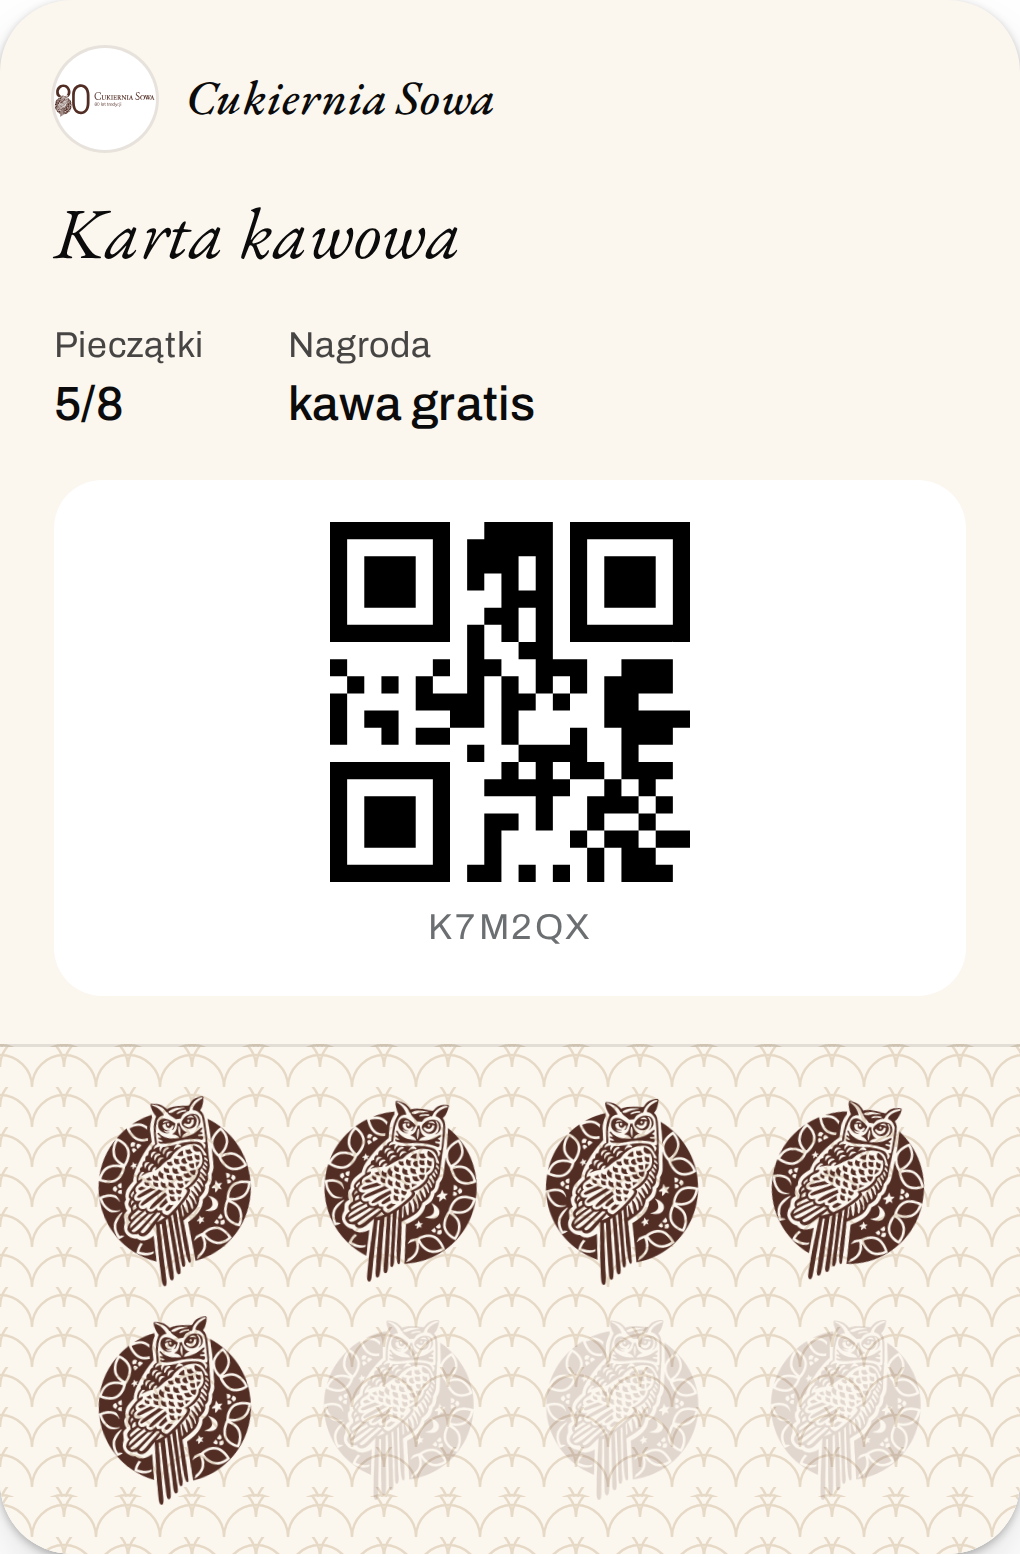
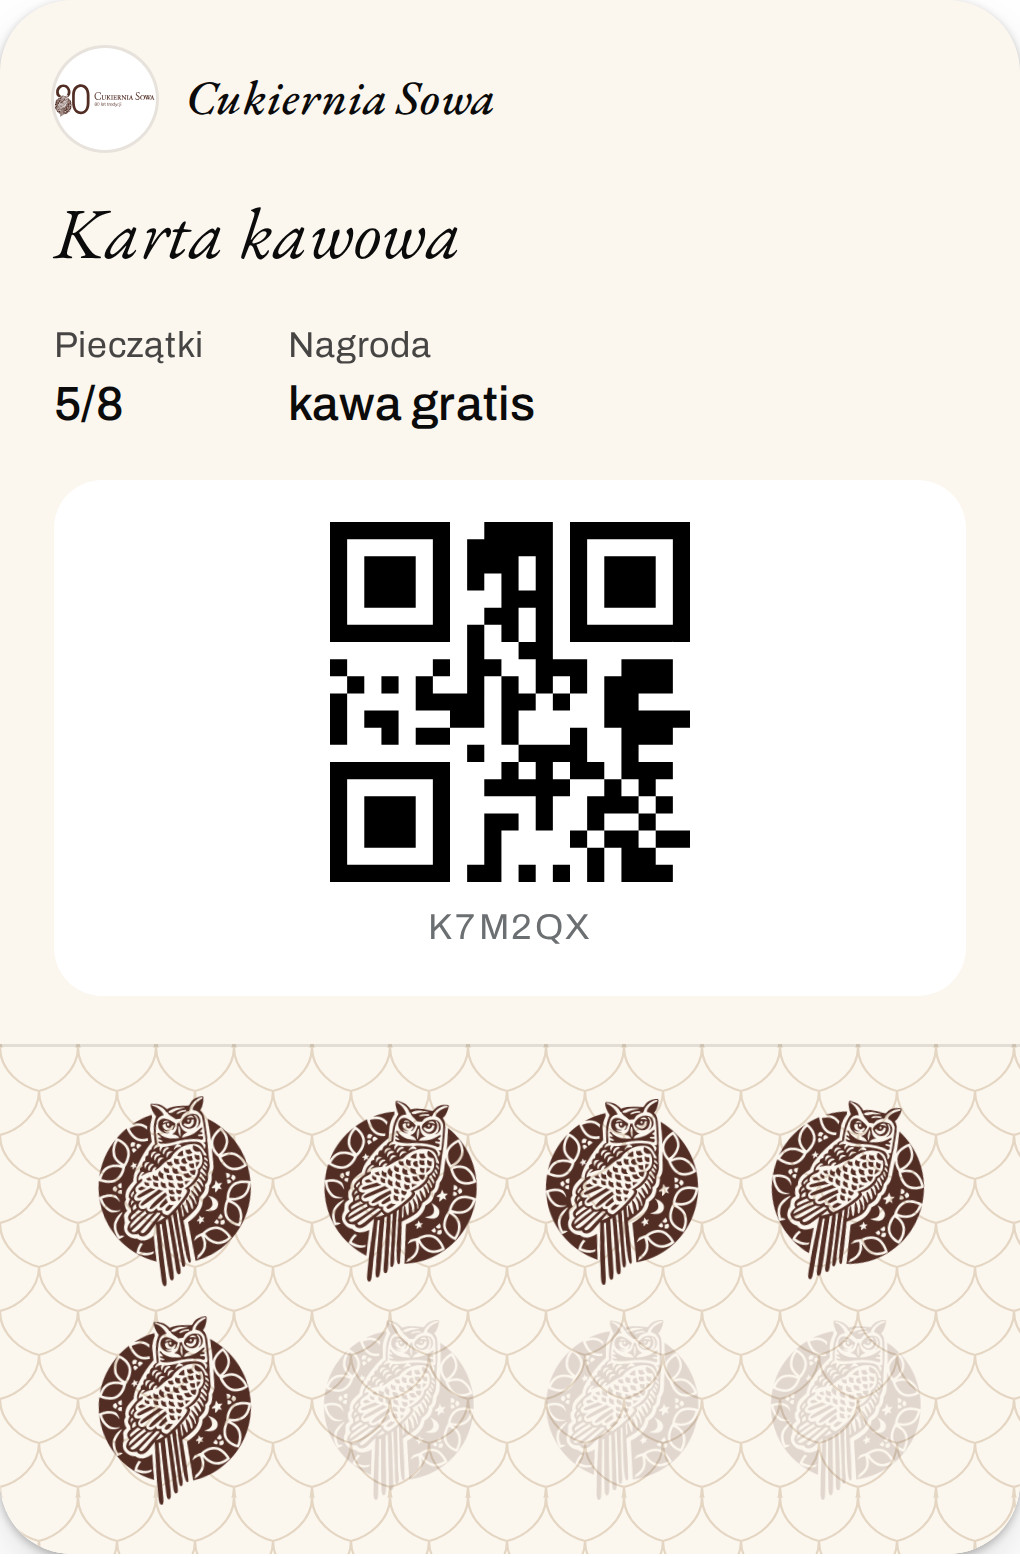
Sowa example: feather texture like on their website
Claude-Session: https://claude.ai/code/session_015Jxz3uYVBeA1BfejC8Sdvv

Changed region(s): [[0.0, 0.6474, 1.0, 1.0]]

diff --git a/print/example-cards.html b/print/example-cards.html
@@ -34,8 +34,9 @@ h1{font-size:28px;margin:0 0 6px}
   const BEAR = await dataUrl('kit-orsonero/art/orsonero-bear.svg');
   // A strip with a big, faint logo in the middle: the stamps sit on top of it.
   const watermark = (img, bg, opacity, w = 1020, h = 450, size = 400) => svgUrl(`<svg xmlns="http://www.w3.org/2000/svg" xmlns:xlink="http://www.w3.org/1999/xlink" viewBox="0 0 ${w} ${h}"><rect width="${w}" height="${h}" fill="${bg}"/><image href="${img}" xlink:href="${img}" x="${(w - size) / 2}" y="${(h - size) / 2}" width="${size}" height="${size}" opacity="${opacity}" preserveAspectRatio="xMidYMid meet"/></svg>`);
-  // Sowa's fish-scale pattern (as on cukierniasowa.pl), in cream.
-  const scales = svgUrl(`<svg xmlns="http://www.w3.org/2000/svg" viewBox="0 0 1020 450"><defs><pattern id="s" width="64" height="40" patternUnits="userSpaceOnUse"><path d="M-32 40a32 32 0 0 1 64 0M32 40a32 32 0 0 1 64 0M0 20a32 32 0 0 1 64 0" fill="none" stroke="#E6D9C6" stroke-width="2.4"/></pattern></defs><rect width="1020" height="450" fill="#FBF6EE"/><rect width="1020" height="450" fill="url(#s)"/></svg>`);
+  // Sowa's feather pattern (as on cukierniasowa.pl): pointed scales in offset rows, in cream.
+  const W = 78, H = 44, feather = (x, y) => `M${x} ${y}C${x} ${y + H * .55} ${x + W * .28} ${y + H * .9} ${x + W / 2} ${y + H}C${x + W * .72} ${y + H * .9} ${x + W} ${y + H * .55} ${x + W} ${y}`;
+  const scales = svgUrl(`<svg xmlns="http://www.w3.org/2000/svg" viewBox="0 0 1020 450"><defs><pattern id="s" width="${W}" height="${H * 2}" patternUnits="userSpaceOnUse"><path d="${[feather(0, 0), feather(-W / 2, H), feather(W / 2, H), feather(0, H * 2), feather(-W / 2, -H), feather(W / 2, -H)].join('')}" fill="none" stroke="#E4D6C2" stroke-width="2.2" stroke-linecap="round"/></pattern></defs><rect width="1020" height="450" fill="#FBF6EE"/><rect width="1020" height="450" fill="url(#s)"/></svg>`);
   // Light oak with a soft grain, for Orsonero's counters.
   let grain = '';
   for (let i = 0; i < 26; i++) { const y = 10 + i * 17 + (i % 3) * 3, a = 4 + (i * 7) % 9; grain += `<path d="M0 ${y}C170 ${y - a} 340 ${y + a} 510 ${y}S850 ${y - a} 1020 ${y + 2}" fill="none" stroke="${i % 4 ? '#DCCBAE' : '#D2BE9B'}" stroke-width="${i % 5 ? 1.6 : 2.6}"/>`; }

diff --git a/print/kit-sowa/README.md b/print/kit-sowa/README.md
@@ -7,7 +7,7 @@ so the simple example turns that card into a phone card; the 80th-anniversary on
 | File | What it is |
 |---|---|
 | `card-sowa-simple-iphone.png` / `-android.png` | Simple: their owl in the middle, brown dots as stamps |
-| `card-sowa-80-iphone.png` / `-android.png` | For the 80th anniversary: a coffee card with their fish-scale texture, the "80" logo, the owl as the stamp |
+| `card-sowa-80-iphone.png` / `-android.png` | For the 80th anniversary: a coffee card with their feather texture, the "80" logo, the owl as the stamp |
 | `example-cards-overview.png` | Both designs, plus the two Orsonero designs, on one page |
 | `../brochure-sowa-pl.pdf` | The Polish brochure with their name |
 
